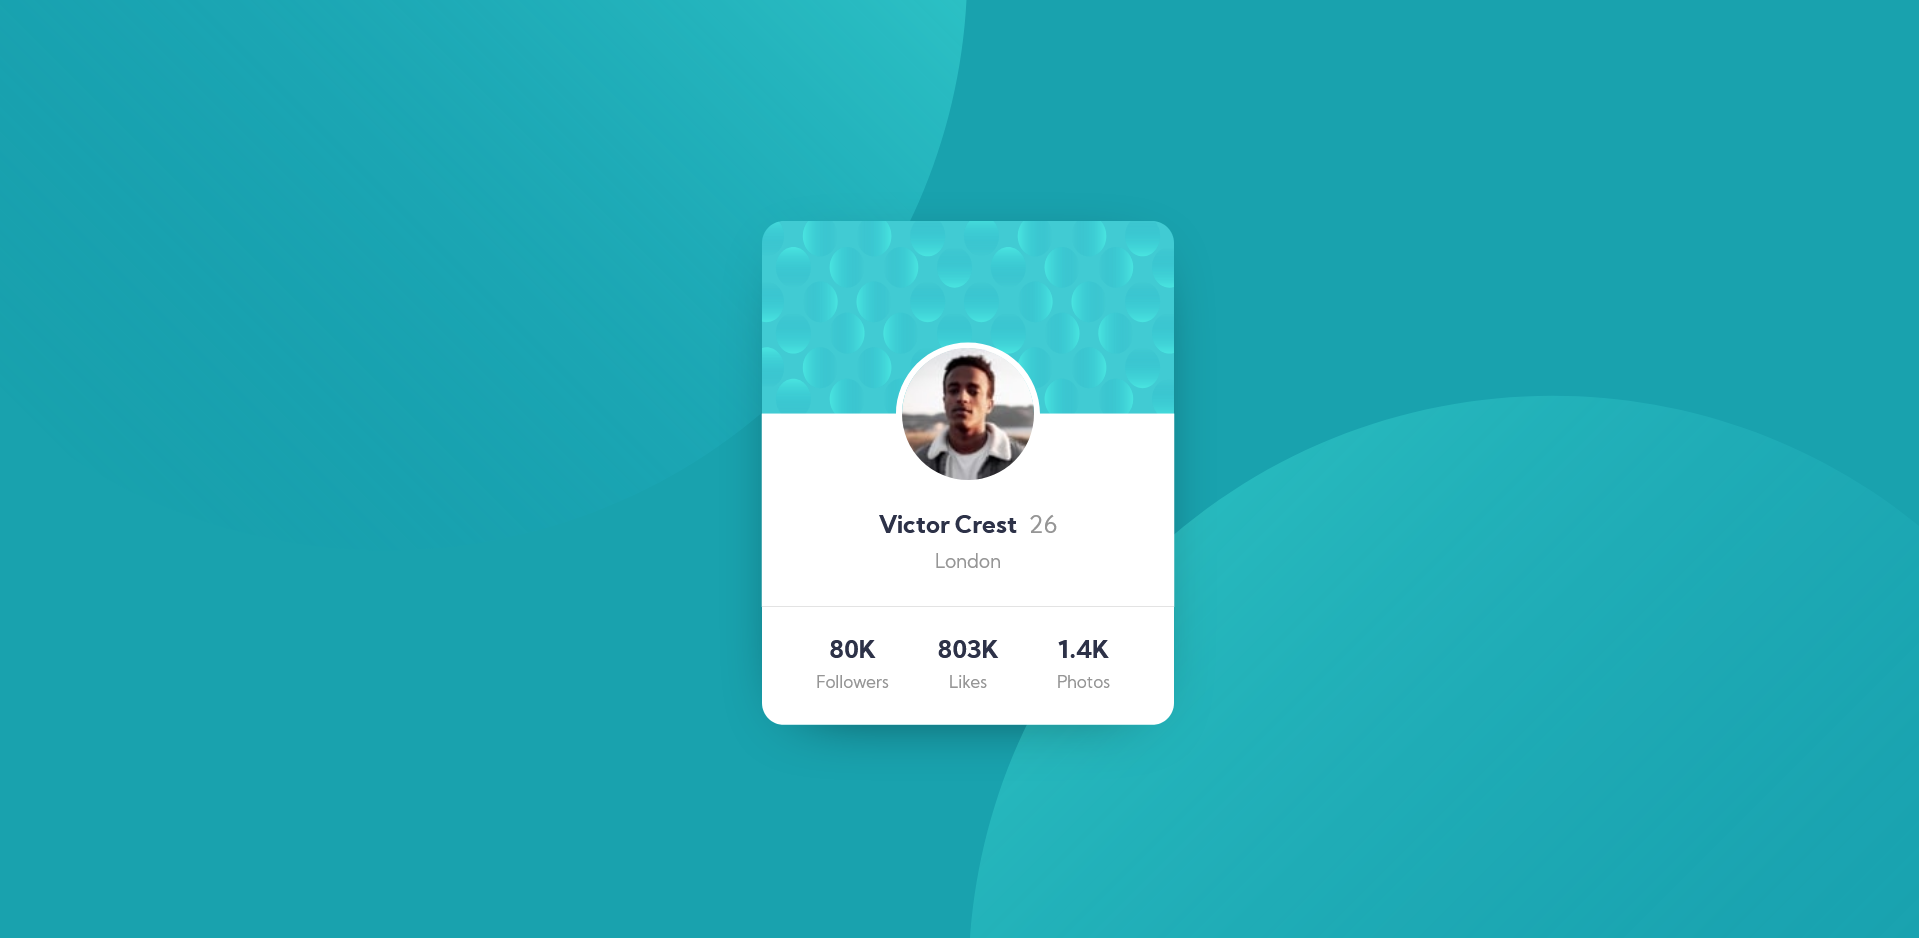
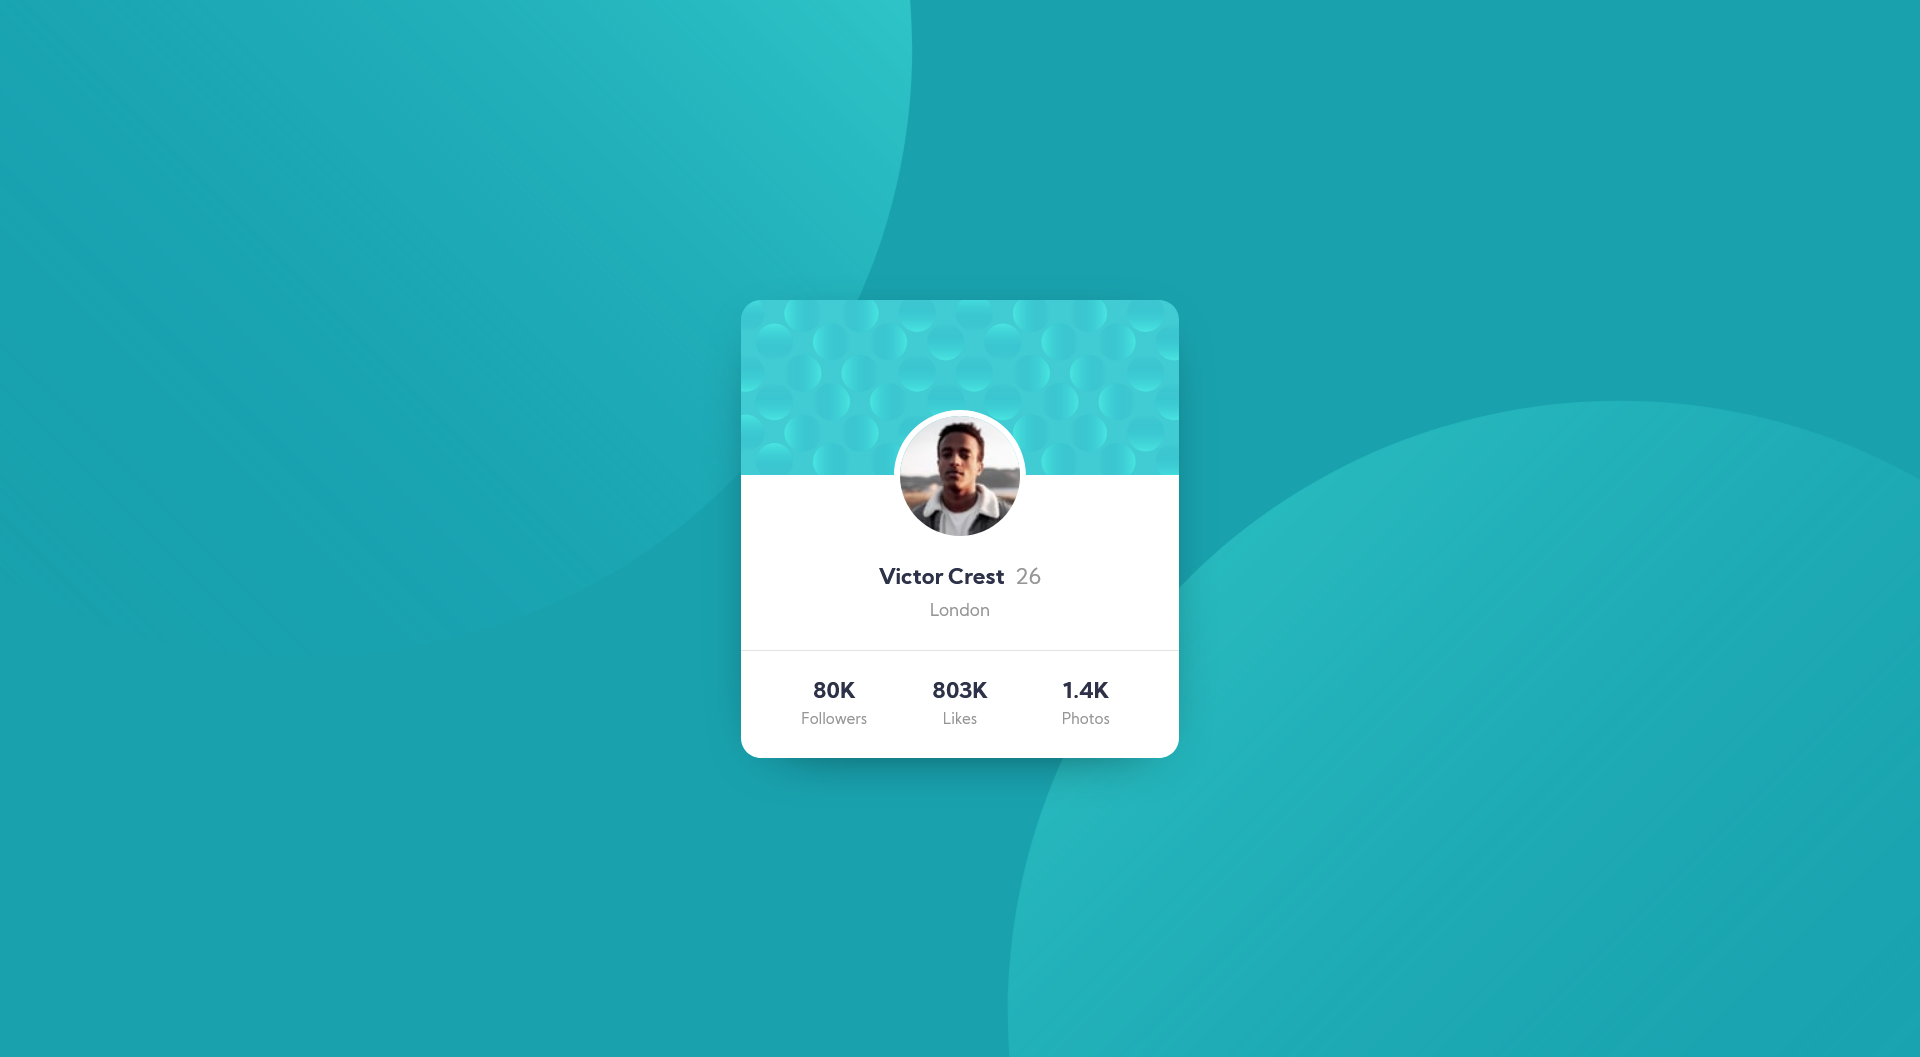
fix background

Changed region(s): [[0.3689, 0.2164, 0.6149, 0.8038], [0.4612, 0.0, 0.5227, 0.0928], [0.5842, 0.6183, 0.6149, 0.6493]]

diff --git a/style.css b/style.css
@@ -2,28 +2,16 @@ body {
 	display: flex;
 	justify-content: center;
 	align-items: center;
-	height: 100vh;
-	background: hsl(185, 75%, 39%);
-	overflow: hidden;
+	min-height: 100vh;
 	font-family: 'Kumbh Sans', sans-serif;
-}
-
-.bg-top, .bg-bottom {
-	position: absolute;
-	height: auto;
-	width: 53rem;
-}
-.bg-top {
-	top: -65%;
-	right: 50%;
-}
-.bg-bottom {
-	bottom: -65%;
-	left: 50%;
+	background:
+		url("images/bg-pattern-top.svg") right calc(47vw + 15%) bottom calc(65vh - 15vw) no-repeat,
+		url("images/bg-pattern-bottom.svg") left calc(47vw + 15%) top calc(65vh - 15vw) no-repeat,
+		hsl(185, 75%, 39%);
 }
 
 .card {
-	width: 300px;
+	width: 350px;
 	border-radius: 1rem;
 	overflow: hidden;
 	color: hsl(229, 23%, 23%);

diff --git a/index.html b/index.html
@@ -13,8 +13,6 @@
   <title>Frontend Mentor | Profile card component</title>
 </head>
 <body>
-  <img src="images/bg-pattern-top.svg" alt="" class="bg-top">
-  <img src="images/bg-pattern-bottom.svg" alt="" class="bg-bottom">
   <div class="card">
     <div class="card__body">
       <img src="images/bg-pattern-card.svg" alt="" class="card-bg-top">
